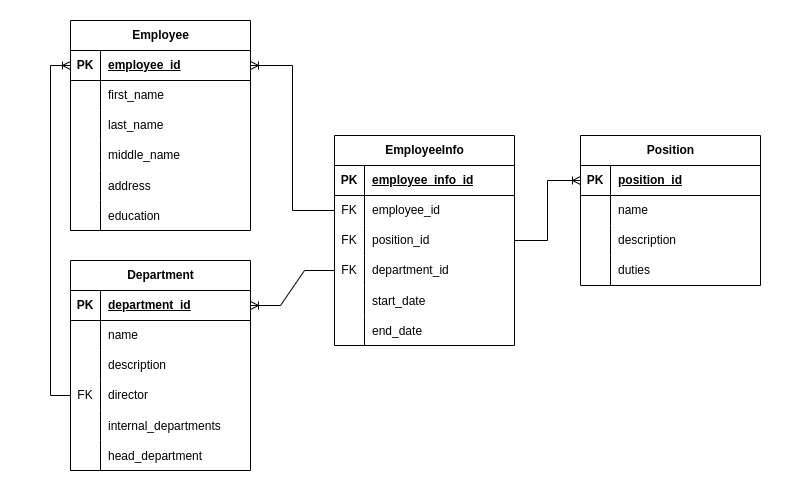
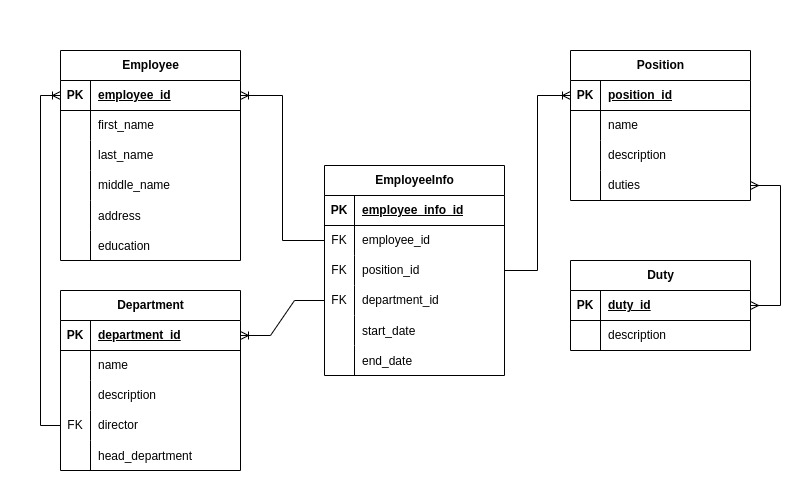
More flexible SQL database. Inserted more examples. Changed documentation.

diff --git a/README.md b/README.md
@@ -12,19 +12,17 @@
 Пользователь попадает на страницу входа. Без авторизации на ней другие страницы будут перекидывать на неё.
 
 ### Главная страница
-Информация о компании, картинки. Сверху видно путевое меню с кнопками (оно доступно на всех страницах, кроме входного), которые ссылаются на страницы с сотрудниками и подразделениями. Справа небольшое окно с логином пользователя. При наведении на кнопки появляется выпадающее меню. Можно попасть либо на общую страницу с сотрудниками (подразделениями), либо на страницу поиска сотрудника (или подразделения)
+Информация о компании, картинки. Сверху видно путевое меню с кнопками (оно доступно на всех страницах, кроме входного), которые ссылаются на страницы с сотрудниками и подразделениями. Справа небольшое окно с логином пользователя. При наведении на кнопки появляется выпадающее меню. Можно попасть на поисковую страницу либо с сотрудниками либо с подразделениями.
 
 ### Страница сотрудников
-Пользователь получает список всех имеющихся сотрудников в алфавитном порядке. Видит их ФИО,  должность и подразделение.
+Чуть ниже меню на странице виднеется плашка с поиском сотрудников. Плашка с параметрами поиска (ФИО, должность, подразделение, стаж работы в компании). Рядом кнопка поиск. Если параметры не указаны, то возвращаются все сотрудники. Если пользователя не существует, пользователь получает уведомление об этом. При наличии специальных прав, при успешном поиске отобразится больше информации о сотруднике.
+Изначально (при отсутствии фильтров) пользователь получает список всех имеющихся сотрудников в алфавитном порядке. Видит их ФИО,  должность и подразделение.
 Можно перейти к конкретному сотруднику на страницу, а можно перейти в поиск конкретного сотрудника.
 При наличии особых прав, появляется третье меню сверху - найм/увольнение/редактирование сотрудников, ссылающееся на соответствующую страницу.
 
 ### Персональная страница сотрудника
 Персональная страница сотрудника.
 Доступна более полная информация: ФИО, образование, стаж в компании, должность, подразделение. Если права пользователя позволяют, то дополнительно появятся домашний адрес и возможность просмотра истории конкретного служащего (раскрывающийся список).
-
-### Страница поиска сотрудника
-В самом начале страницы есть плашка с параметрами поиска (ФИО, должность, подразделение, стаж работы в компании). Рядом кнопка поиск. Если параметры не указаны, то возвращаются все сотрудники. Если пользователя не существует, пользователь получает уведомление об этом. При наличии специальных прав, при успешном поиске отобразится больше информации о сотруднике.
 
 ### Страница Найма/Редактирования/Увольнения сотрудников
 Эта страница доступна только пользователям с расширенными правами.
@@ -36,16 +34,14 @@
 При создании указываются его данные: ФИО, образование, адрес, его должность и подразделение.
 
 ### Страница подразделений
-Пользователь получает список всех имеющихся подразделений в алфавитном порядке. Видит их название и директора.
+Чуть ниже меню на странице виднеется плашка с поиском подразделений. Плашка с параметрами поиска (название, руководитель). Рядом кнопка поиск. Если параметры не указаны, то возвращаются все подразделения. Если подразделения не существует, пользователь получает уведомление об этом.
+Изначально (при отсутствии фильтров) пользователь получает список всех имеющихся подразделений в алфавитном порядке. Видит их название и директора.
 Можно перейти к конкретному подразделению на страницу, а можно перейти в поиск конкретного подразделения.
 При наличии особых прав, появляется третье меню сверху - создание/редактирование/удаление подразделений, ссылающееся на соответствующую страницу.
 
 ### Персональная страница подразделения
 Персональная страница подразделения.
 Доступна более полная информация: Название, описание, руководитель, сотрудники, структурное деление . Под названием краткая информация о должностях и их количестве в подразделении.
-
-### Страница поиска подразделения
-В самом начале страницы есть плашка с параметрами поиска (название, руководитель). Рядом кнопка поиск. Если параметры не указаны, то возвращаются все подразделения. Если подразделения не существует, пользователь получает уведомление об этом.
 
 ### Страница Создания/Редактирования/Удаления подразделений
 Эта страница доступна только пользователям с расширенными правами.
@@ -69,18 +65,18 @@
 * По меню сверху переходим на подразделения
 
 ### Получение списка структур подразделений
-* По меню сверху переходим на поиск подразделений
+* По меню сверху переходим на подразделения
 * В плашке вбиваем нужные данные подразделения (или оставляем пустым)
 * Нажимаем поиск
 
 ### Получение списка служащих по различным фильтрам
-* По меню сверху переходим на поиск сотрудников
+* По меню сверху переходим на страницу сотрудников
 * В плашке указываем необходимые параметры поиска
 * Нажимаем поиск
 
 ### Получение истории для данного служащего
 * Необходимо владение особыми правами
-* По меню сверху переходим на поиск сотрудников
+* По меню сверху переходим на страницу сотрудников
 * В плашке указываем необходимые параметры поиска
 * Нажимаем поиск
 
